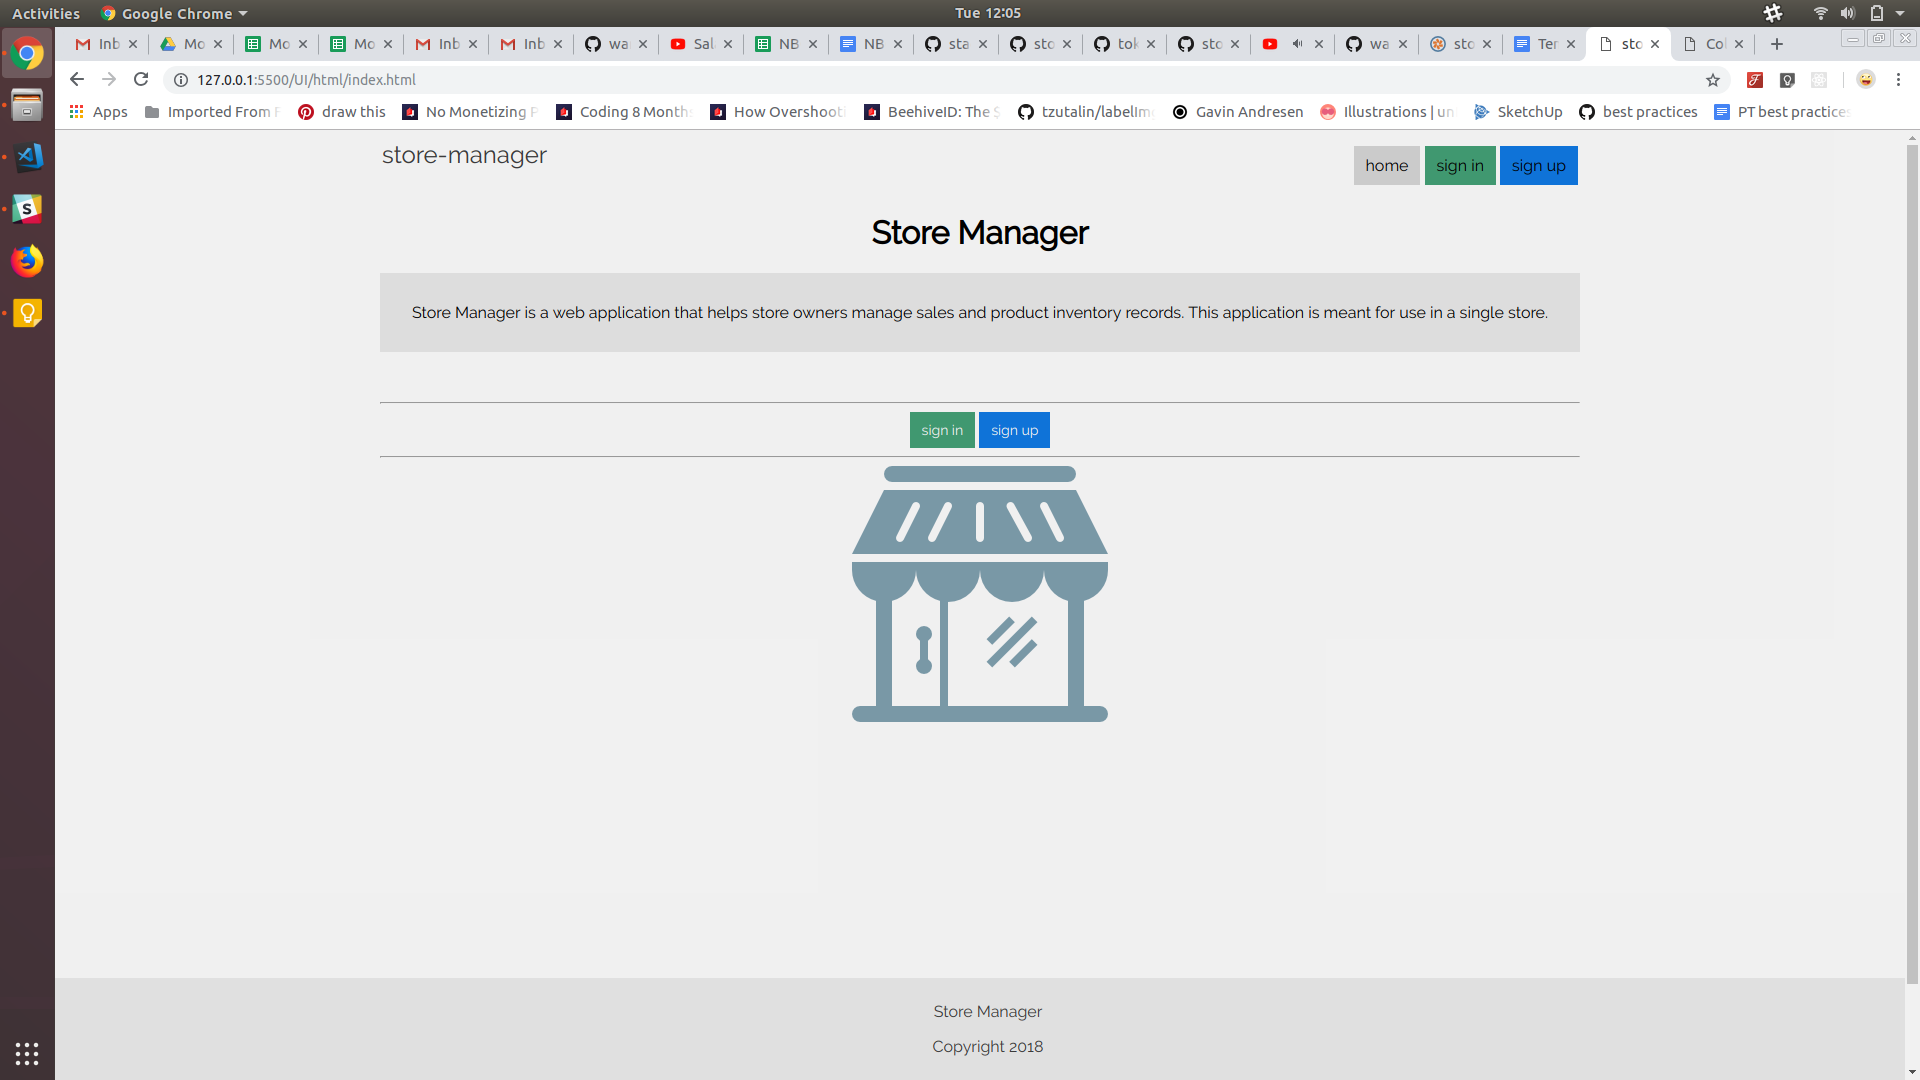
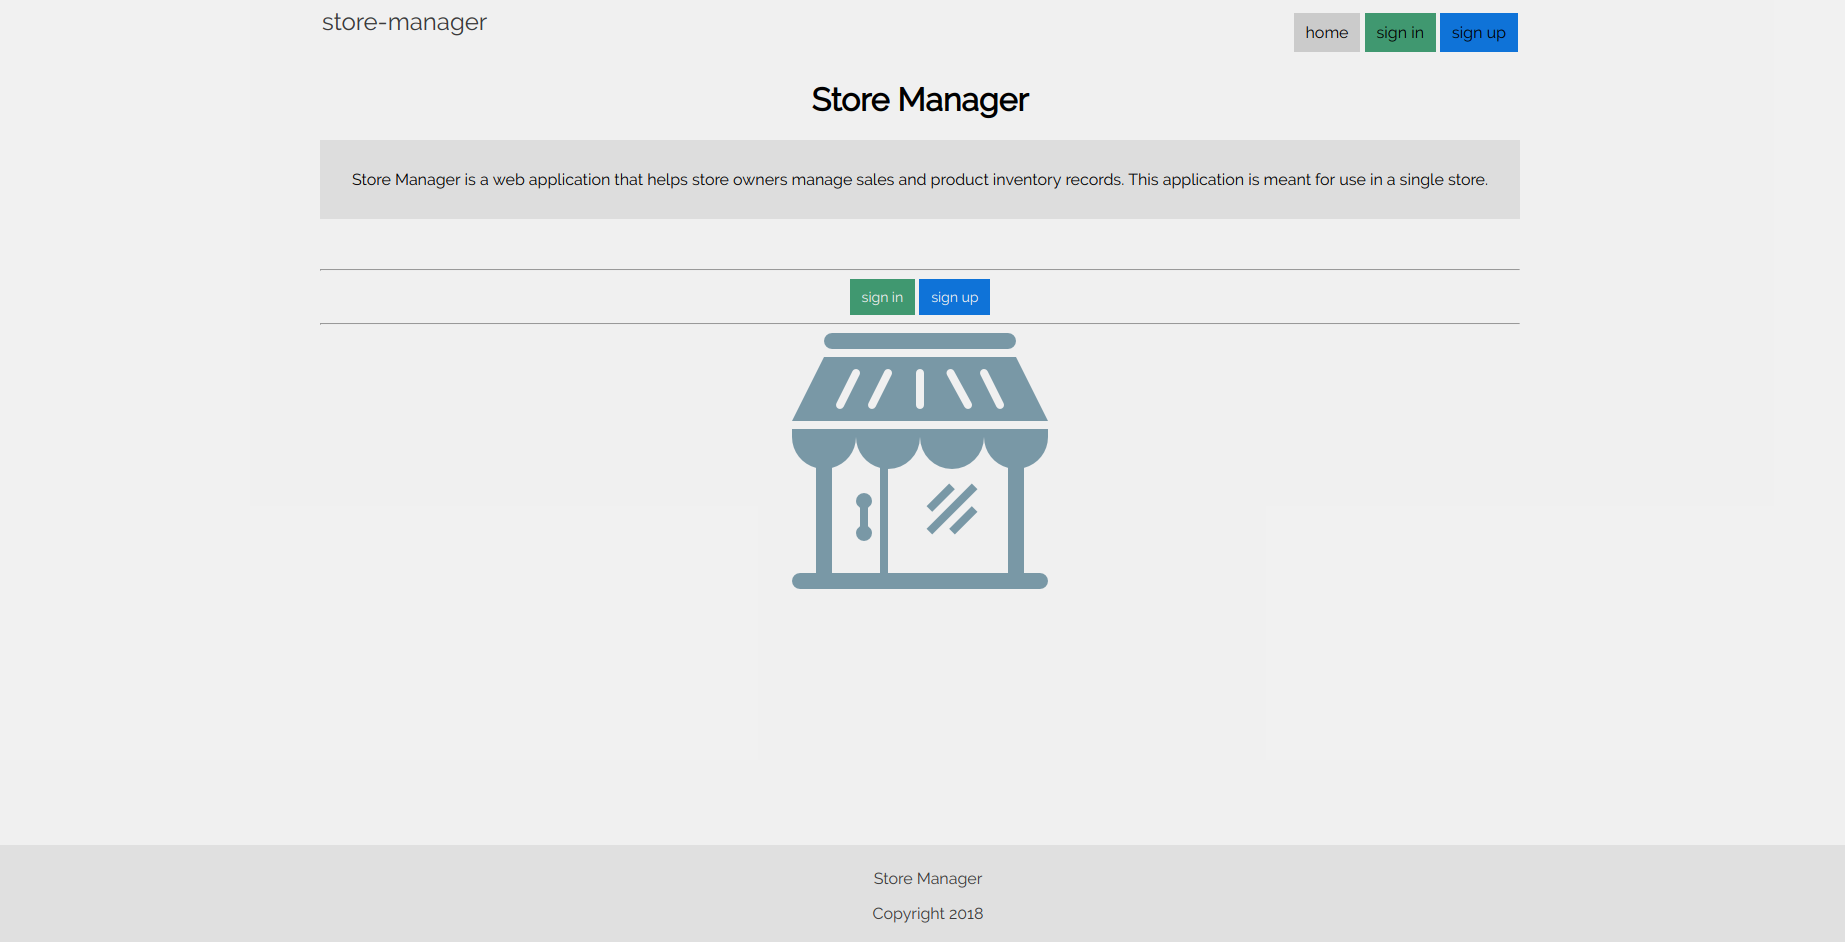
[Bug #161409140] add app screen shots to README.md

diff --git a/README.md b/README.md
@@ -11,7 +11,41 @@ These instructions will get you a copy of the project up and running on your loc
 git clone https://github.com/waracci/store-manager-ui.git
 open the index.html file in your browser
 ```
+# App pages:
 
+## Landing page
+
+> contains the application description and links to sign in and sign up to access the apps features.
+
+![index page](UI/assets/images/screen_shots/index.png)
+
+
+## Sign in page
+
+> contains the application sign in page. This page leads to the dashboard
+
+![index page](UI/assets/images/screen_shots/signin.png)
+
+
+## Application dashboard
+
+> contains the application dashboard that contains links to the apps features
+
+![index page](UI/assets/images/screen_shots/dashboard.png)
+
+
+## Products page
+
+> All products in inventory are listed here
+
+![index page](UI/assets/images/screen_shots/products.png)
+
+
+## Sales page
+
+> All sales made by store attendants are listed here
+
+![index page](UI/assets/images/screen_shots/sales.png)
 
 ## Authors
 
